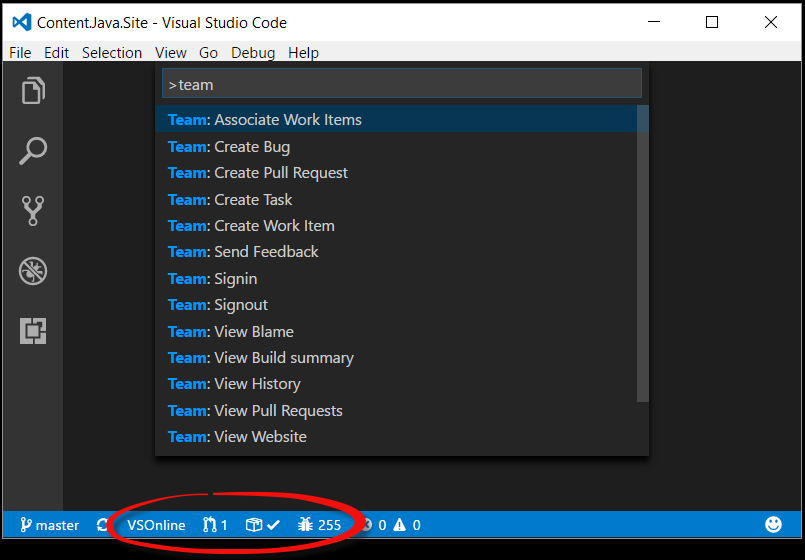
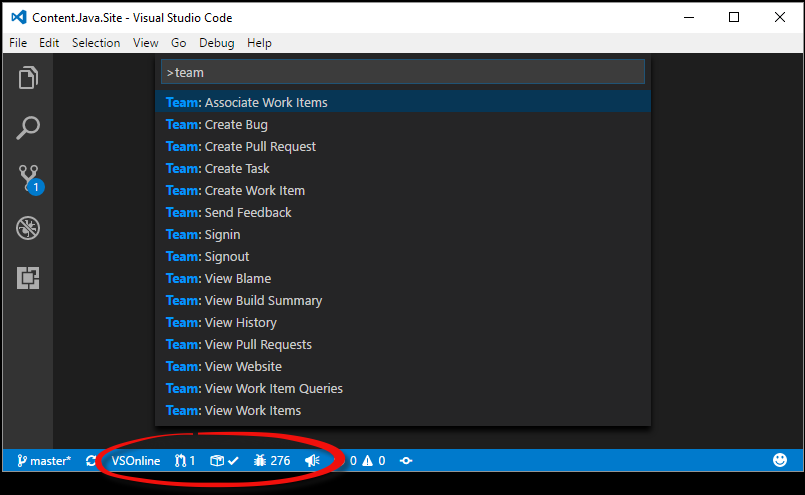
Updating README with Feedback changes (#214)

diff --git a/README.md b/README.md
@@ -4,7 +4,8 @@ This extension allows you to connect to Team Services, manage your pull requests
 monitor builds and work items for your team project. It uses your local repository information to connect to either
 Team Services or Team Foundation Server 2015 Update 2 (and later).
 
-As of version 1.116.0, it **provides support for the TFVC source control system**! To learn about the TFVC support, review our [documentation](TFVC_README.md).
+As of version 1.116.0, it **provides support for the TFVC source control system**! To learn about the TFVC support, review our [documentation](TFVC_README.md) or watch
+our [overview video](https://youtu.be/6IzJ2UPGmoQ).
 
 ![Visual Studio Team Services extension](assets/vscode.png)
 
@@ -93,6 +94,9 @@ summary page in your browser. This indicator will update its status every 5 minu
 the number of items returned by your pinned work item query. If you have not configured a pinned query it
 defaults to the work items assigned to you. Clicking the item will show you the work items the query returns.
 This indicator will update its status every 5 minutes.
+
+* ![Feedback indicator](assets/feedback-indicator.png) – Clicking this status bar item allows you to quickly send
+feedback about the Team Services extension.
 
 ## Commands
 In addition to the status bar integrations, the extension also provides several commands for interacting with
